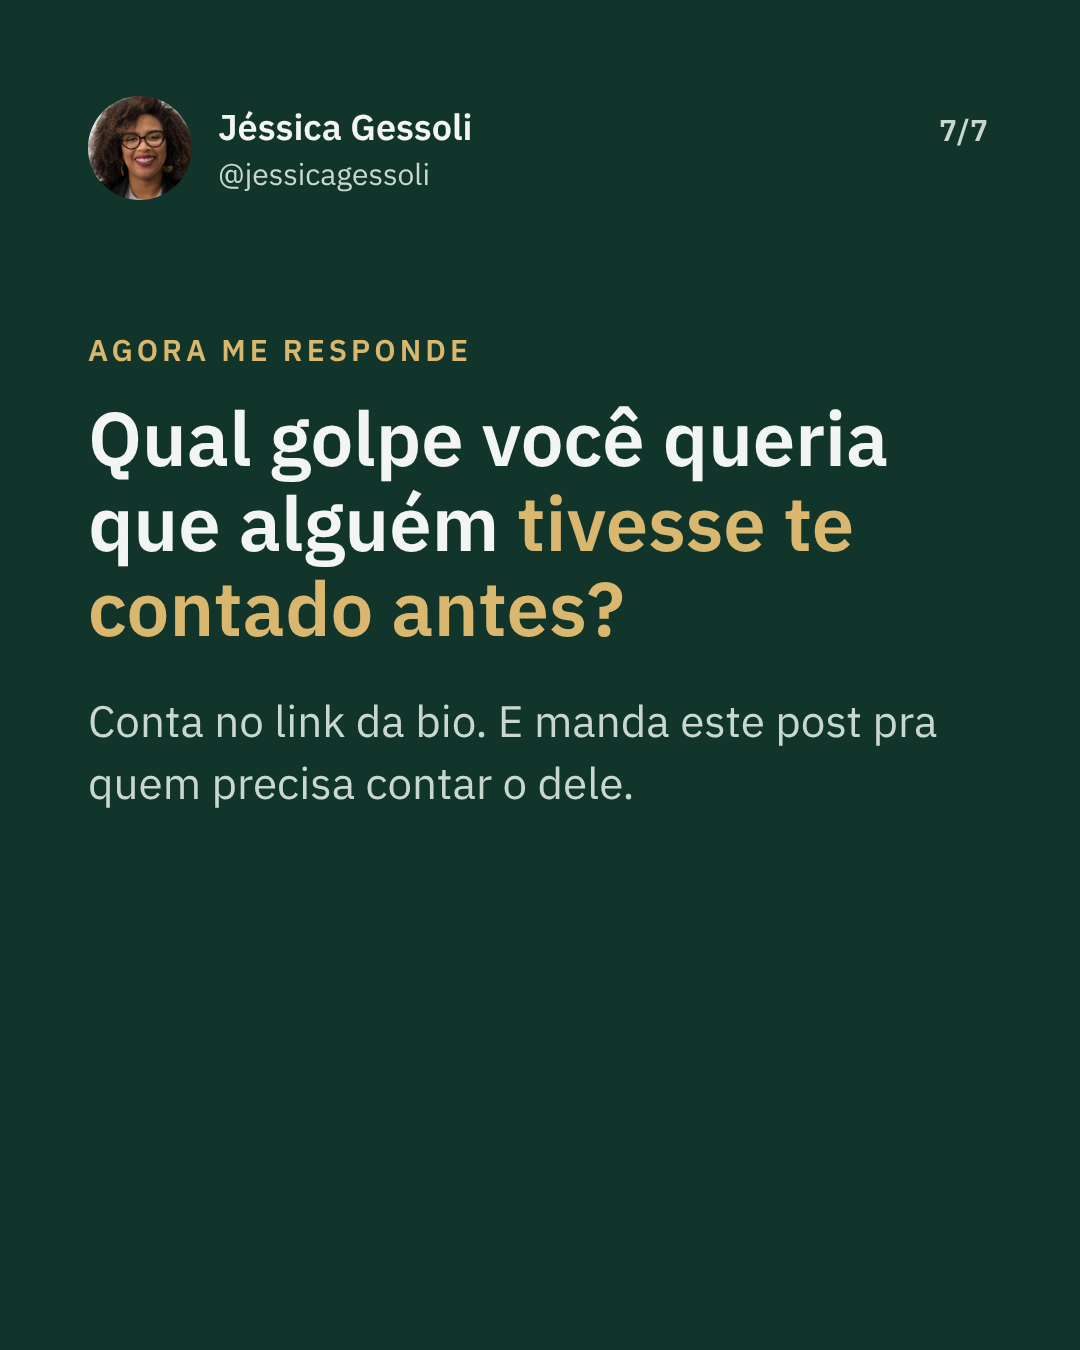
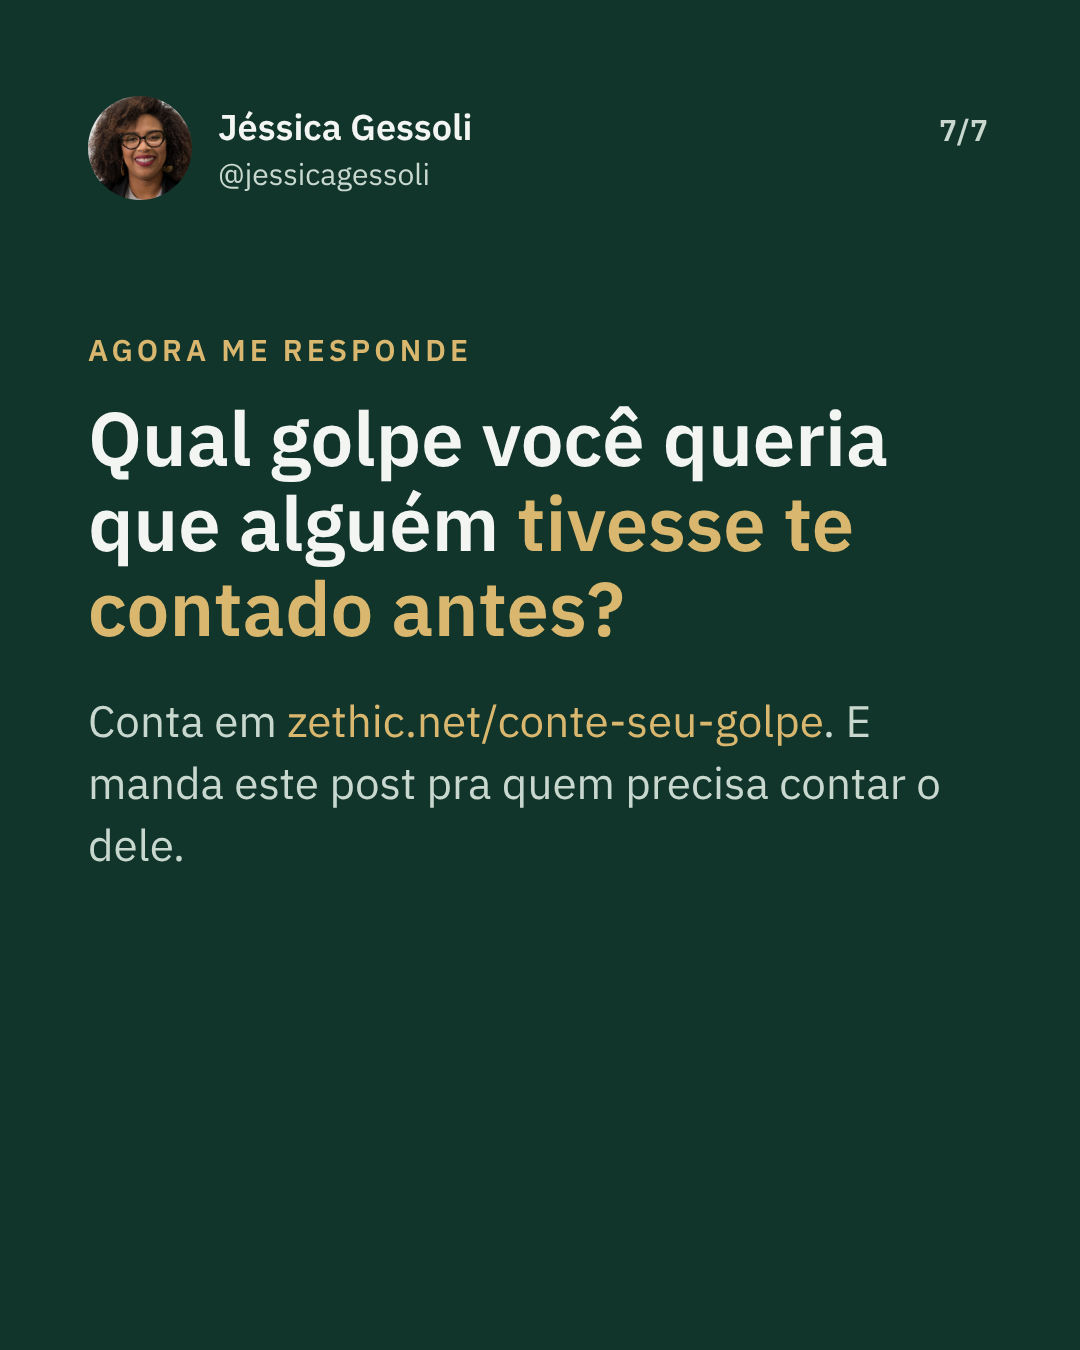
Conte o seu golpe: post 2 aponta para zethic.net/conte-seu-golpe (sem depender do link da bio) e script que cria o Google Forms
Claude-Session: https://claude.ai/code/session_014grh3uaSABRrhKanxqxRUA

Changed region(s): [[0.0917, 0.5289, 0.8861, 0.6533]]

diff --git a/campaigns/social/conte-seu-golpe-2026-10/out/2026-10-23-conte-o-seu-golpe-7.html b/campaigns/social/conte-seu-golpe-2026-10/out/2026-10-23-conte-o-seu-golpe-7.html
@@ -54,4 +54,4 @@ body.s-por{background:#F3F5F2}
 .chk{position:absolute;left:88px;top:860px;display:flex;gap:26px}.chk div{width:92px;height:92px;border:6px solid #D9B76E;border-radius:16px;position:relative}
 .chk div.ok{background:#D9B76E}.chk div.ok:after{content:"";position:absolute;left:28px;top:8px;width:22px;height:46px;border:solid #12352B;border-width:0 10px 10px 0;transform:rotate(45deg)}
 body.s-lat{background:#D9B76E;color:#12352B}.s-lat .at,.s-lat .pg{color:#12352B;opacity:.75}.s-lat mark{background:none;color:#12352B;text-decoration:underline;text-decoration-thickness:8px;text-underline-offset:14px;padding:0}.s-lat .qm,.s-lat .qa{color:#12352B}
-</style></head><body class="dark"><div class="hdr"><div class="av"></div><div><div class="nm">Jéssica Gessoli</div><div class="at">@jessicagessoli</div></div></div><div class="pg">7/7</div><div class="box"><div class="eb">AGORA ME RESPONDE</div><div class="tt">Qual golpe você queria que alguém <mark>tivesse te contado antes?</mark></div><div class="bd">Conta no link da bio. E manda este post pra quem precisa contar o dele.</div></div></body></html>
+</style></head><body class="dark"><div class="hdr"><div class="av"></div><div><div class="nm">Jéssica Gessoli</div><div class="at">@jessicagessoli</div></div></div><div class="pg">7/7</div><div class="box"><div class="eb">AGORA ME RESPONDE</div><div class="tt">Qual golpe você queria que alguém <mark>tivesse te contado antes?</mark></div><div class="bd">Conta em <mark>zethic.net/conte-seu-golpe</mark>. E manda este post pra quem precisa contar o dele.</div></div></body></html>

diff --git a/campaigns/social/conte-seu-golpe-2026-10/textos.py b/campaigns/social/conte-seu-golpe-2026-10/textos.py
@@ -14,9 +14,9 @@ Agora tem aqui também: Conte o seu golpe.
 
 O passo a passo do criminoso nunca aparece, só os sinais de alerta. E o formulário nunca pede CPF, telefone ou dado de banco.
 
-Golpe recente? Avisa o banco, faz o boletim e contesta o Pix. O formulário não substitui isso.
+Golpe recente? Avisa o banco, faz o boletim e contesta o Pix.
 
-Qual golpe você queria que alguém tivesse te contado antes? Conta no link da bio. E manda este post pra quem precisa contar o dele.
+Qual golpe você queria que alguém tivesse te contado antes? Conta em zethic.net/conte-seu-golpe. E manda este post pra quem precisa contar o dele.
 
 Fontes: Febelfin e National Anti-Scam Centre (links no primeiro comentário).
 
@@ -26,11 +26,12 @@ COMENTARIO = """Fontes:
 Febelfin (federação dos bancos da Bélgica), campanha "Maak kabaal, deel je online fraudeverhaal", via VRT NWS (28/04/2026): 64% sentiriam vergonha de golpe online e 20% de assalto em casa; de 78% a 84% acham que contar ajuda os outros: https://www.vrt.be/vrtnws/nl/2026/04/27/febelfin-campagne-schaamte-online-oplichting-maak-kabaal/
 National Anti-Scam Centre (Austrália), "Share a story, stop a scam", Scams Awareness Week de 26 a 30/08/2024: https://www.nasc.gov.au/news/share-a-story-stop-a-scam
 AARP (26/03/2025), linguagem sem culpa: "This isn't your fault – you experienced a crime": https://www.aarp.org/states/new-hampshire/shifting-the-conversation-about-scams-no-more-victim-blaming/
+Conte o seu golpe: https://zethic.net/conte-seu-golpe
 Política de privacidade: https://zethic.net/privacidade"""
 
 LI_COMENTARIO = COMENTARIO + """
 FTC, campanha "Pass It On" (09/09/2014): https://ftc.gov/news-events/news/press-releases/2014/09/pass-it-new-ftc-education-campaign-encourages-older-consumers-share-their-knowledge-help-fight-fraud
-Conte o seu golpe: [link do formulário, entra quando o canal estiver no ar]
+Conte o seu golpe: https://zethic.net/conte-seu-golpe
 
 Quer saber onde o seu Negócio está mais exposto a golpe e vazamento de dados? Vamos conversar 30 minutos: https://calendly.com/jessica-gessoli-zethic/conversa-de-30-minutos-com-a-jessica-gessoli"""
 
@@ -50,7 +51,7 @@ Os relatos vão virar alertas e, mais à frente, um programa: Especialistas tamb
 
 Que golpe você gostaria que alguém da sua equipe tivesse contado antes?
 
-O link está no primeiro comentário. Este conteúdo também está no Instagram @jessicagessoli, onde eu traduzo Cibersegurança e IA para quem é dono do Negócio.
+O endereço é zethic.net/conte-seu-golpe e também está no primeiro comentário. Este conteúdo também está no Instagram @jessicagessoli, onde eu traduzo Cibersegurança e IA para quem é dono do Negócio.
 
 #cibersegurança #culturadesegurança #golpe #governança #liderança"""
 
@@ -61,5 +62,5 @@ ALT = [
  "Lá fora já é campanha: Faça barulho, conte a sua história. É a campanha de 2026 dos bancos da Bélgica. Na Austrália, em 2024, o tema foi Compartilhe uma história, pare um golpe.",
  "Aqui também: Conte o seu golpe. Leva poucos minutos: 1. Não pede o seu nome. 2. Você decide se o relato pode virar post. 3. Nome, cidade e valor são trocados. 4. Quer apagar depois? É só pedir.",
  "O que nunca vai aparecer: o passo a passo do criminoso. Os posts mostram os sinais de alerta. E o formulário nunca pede CPF, telefone ou dado de banco.",
- "Agora me responde: qual golpe você queria que alguém tivesse te contado antes? Conta no link da bio. E manda este post pra quem precisa contar o dele.",
+ "Agora me responde: qual golpe você queria que alguém tivesse te contado antes? Conta em zethic.net/conte-seu-golpe. E manda este post pra quem precisa contar o dele.",
 ]

diff --git a/campaigns/social/conte-seu-golpe-2026-10/posts.py b/campaigns/social/conte-seu-golpe-2026-10/posts.py
@@ -9,7 +9,7 @@ POSTS = [
    ("text", "LÁ FORA JÁ É CAMPANHA", "\"Faça barulho, conte a sua história\"", "É a campanha de 2026 dos bancos da Bélgica. Na Austrália, em 2024, o tema foi [[\"Compartilhe uma história, pare um golpe\"]]."),
    ("list", "AQUI TAMBÉM: CONTE O SEU GOLPE", "Leva poucos minutos", ["Não pede o seu nome.", "Você decide se o relato pode virar post.", "Nome, cidade e valor são trocados.", "Quer apagar depois? É só pedir."]),
    ("text", "O QUE NUNCA VAI APARECER", "O passo a passo do criminoso", "Os posts mostram os sinais de alerta. E o formulário [[nunca pede]] CPF, telefone ou dado de banco."),
-   ("end", "AGORA ME RESPONDE", "Qual golpe você queria que alguém [[tivesse te contado antes?]]", "Conta no link da bio. E manda este post pra quem precisa contar o dele."),
+   ("end", "AGORA ME RESPONDE", "Qual golpe você queria que alguém [[tivesse te contado antes?]]", "Conta em [[zethic.net/conte-seu-golpe]]. E manda este post pra quem precisa contar o dele."),
   ],
   texto=""),
 ]
